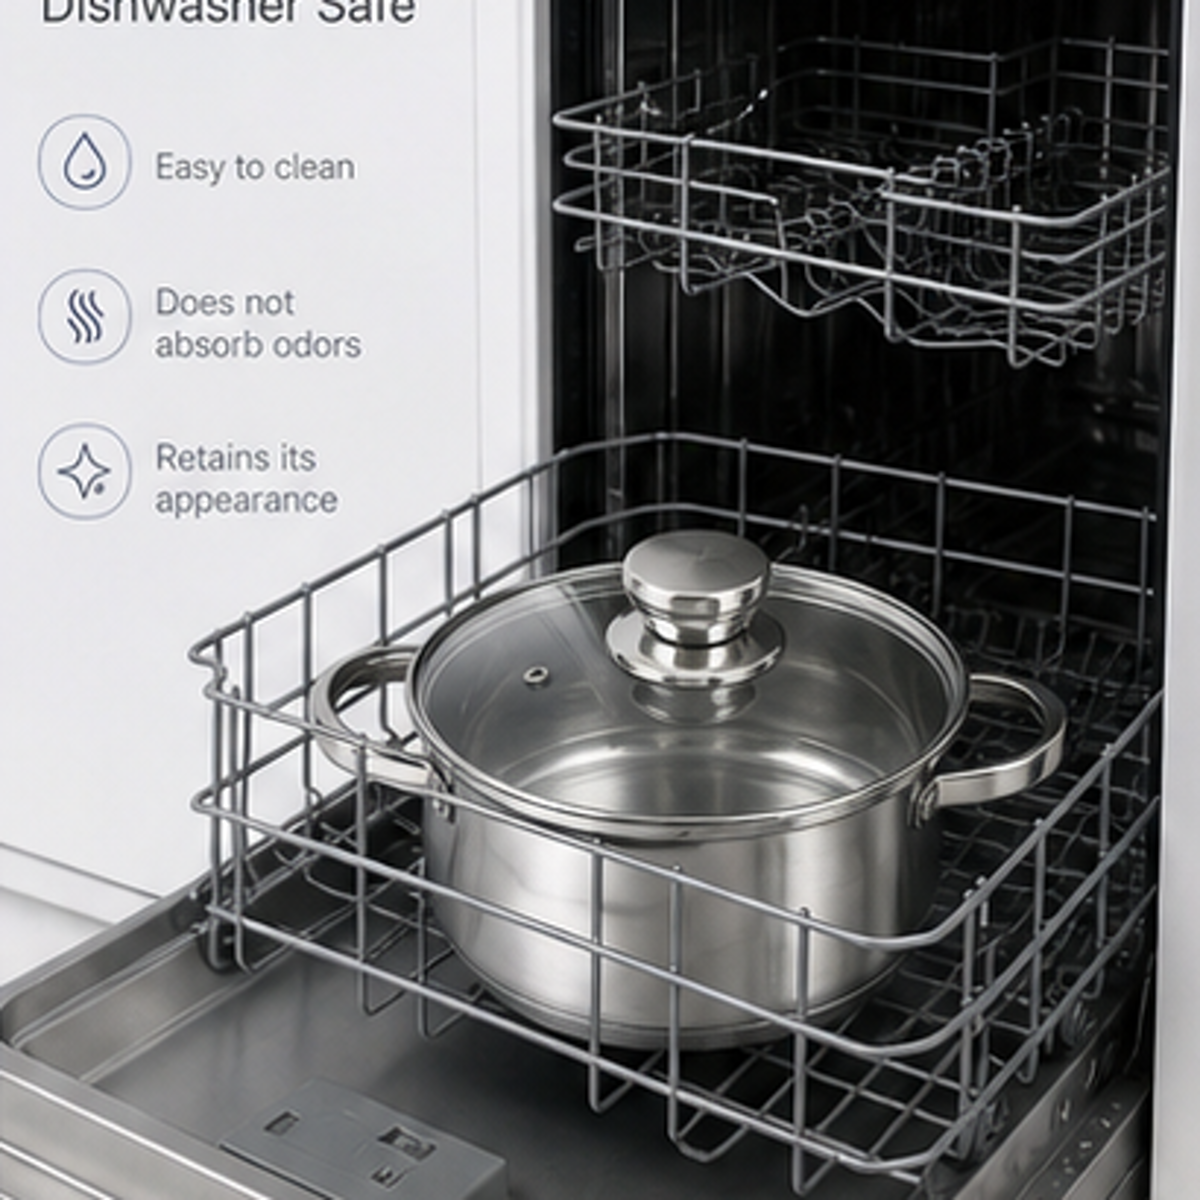
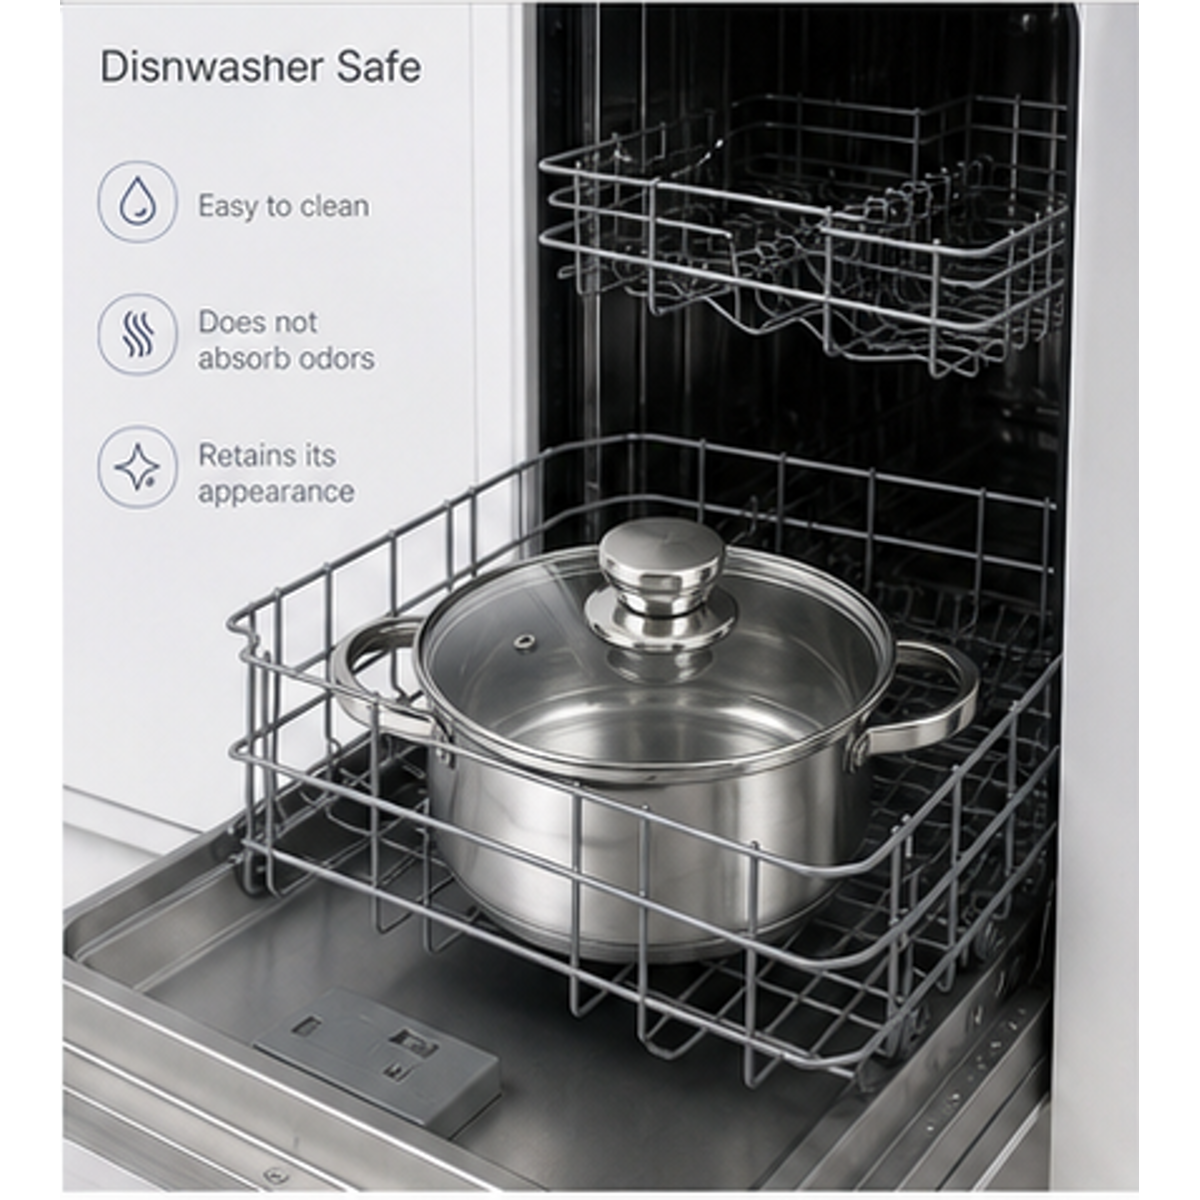
Refit kitchen before slides inside square frames

diff --git a/index.html b/index.html
@@ -95,23 +95,23 @@
         </div>
         <div class="phase-strip">
           <div class="ph-cell">
-            <img class="shot ph-before" src="assets/img/work/vicalina/before-v2-02.png?v=3c68dcd9" alt="Stainless steel cookware set, slide 2 before" decoding="async">
+            <img class="shot ph-before" src="assets/img/work/vicalina/before-v2-02.png?v=38929e88" alt="Stainless steel cookware set, slide 2 before" decoding="async">
             <img class="shot ph-after"  src="assets/img/work/vicalina/02-sm.webp?v=6b93e359" alt="Stainless steel cookware set, slide 2 after" decoding="async">
           </div>
           <div class="ph-cell">
-            <img class="shot ph-before" src="assets/img/work/vicalina/before-v2-03.png?v=89d4a5b9" alt="Stainless steel cookware set, slide 3 before" decoding="async">
+            <img class="shot ph-before" src="assets/img/work/vicalina/before-v2-03.png?v=9320316b" alt="Stainless steel cookware set, slide 3 before" decoding="async">
             <img class="shot ph-after"  src="assets/img/work/vicalina/03-sm.webp?v=1fe0162a" alt="Stainless steel cookware set, slide 3 after" decoding="async">
           </div>
           <div class="ph-cell">
-            <img class="shot ph-before" src="assets/img/work/vicalina/before-v2-04.png?v=e4e604f7" alt="Stainless steel cookware set, slide 4 before" decoding="async">
+            <img class="shot ph-before" src="assets/img/work/vicalina/before-v2-04.png?v=33208afd" alt="Stainless steel cookware set, slide 4 before" decoding="async">
             <img class="shot ph-after"  src="assets/img/work/vicalina/04-sm.webp?v=6fb96bc7" alt="Stainless steel cookware set, slide 4 after" decoding="async">
           </div>
           <div class="ph-cell">
-            <img class="shot ph-before" src="assets/img/work/vicalina/before-v2-05.png?v=a2ccb236" alt="Stainless steel cookware set, slide 5 before" decoding="async">
+            <img class="shot ph-before" src="assets/img/work/vicalina/before-v2-05.png?v=828d68d8" alt="Stainless steel cookware set, slide 5 before" decoding="async">
             <img class="shot ph-after"  src="assets/img/work/vicalina/05-sm.webp?v=2f9a10ed" alt="Stainless steel cookware set, slide 5 after" decoding="async">
           </div>
           <div class="ph-cell">
-            <img class="shot ph-before" src="assets/img/work/vicalina/before-v2-06.png?v=61ebc336" alt="Stainless steel cookware set, slide 6 before" decoding="async">
+            <img class="shot ph-before" src="assets/img/work/vicalina/before-v2-06.png?v=a7316114" alt="Stainless steel cookware set, slide 6 before" decoding="async">
             <img class="shot ph-after"  src="assets/img/work/vicalina/06-sm.webp?v=f0c0b263" alt="Stainless steel cookware set, slide 6 after" decoding="async">
           </div>
         </div>
